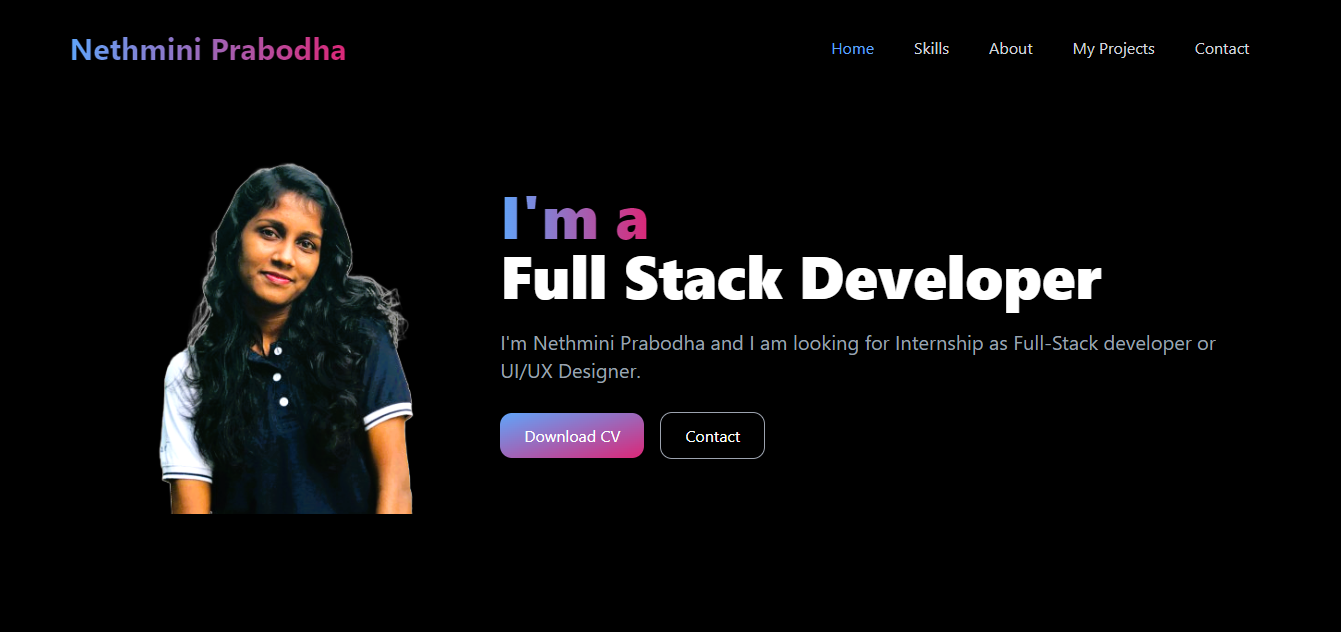
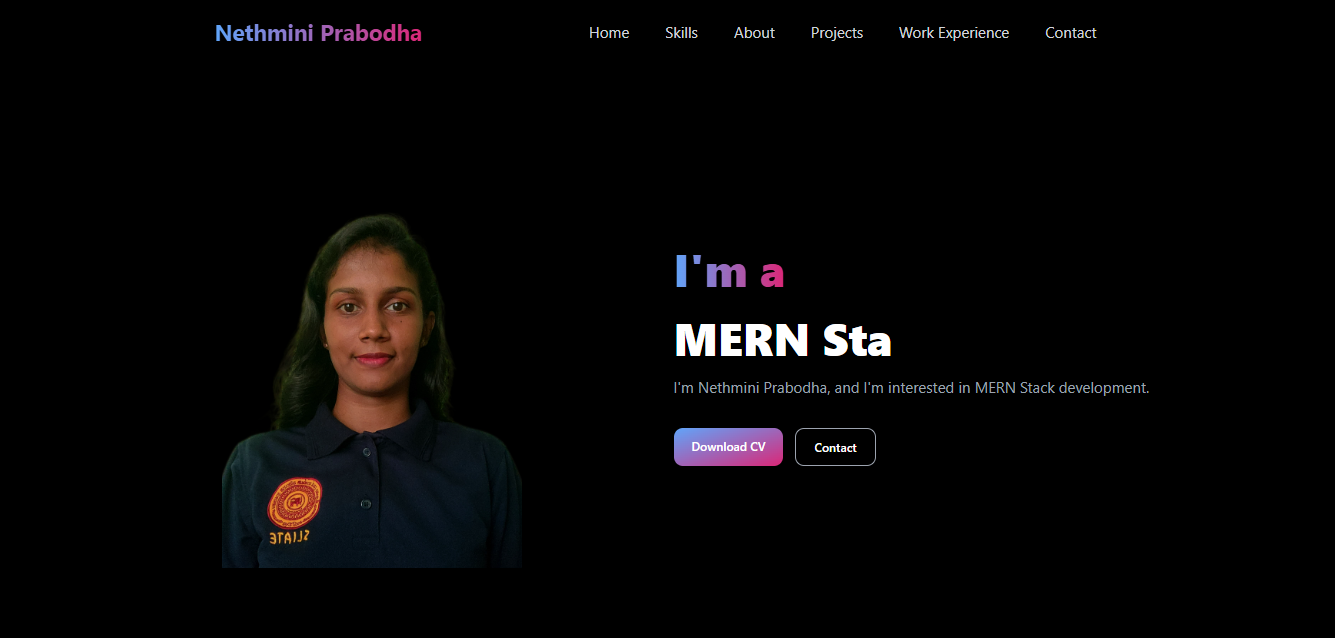
fix

diff --git a/src/components/Projects.jsx b/src/components/Projects.jsx
@@ -1,6 +1,7 @@
 import React, { useEffect } from "react";
 import proj1 from "../assets/JobPortal.png";
 import proj2 from "../assets/proj2.PNG";
+import proj3 from "../assets/proj3.PNG";
 import { MdOpenInNew } from "react-icons/md";
 import Aos from "aos";
 import "aos/dist/aos.css";
@@ -66,7 +67,30 @@ const Projects = () => {
             </a>
           </div>
         </div>
+        <div className="relative group rounded-lg shadow-lg overflow-hidden border border-blue-500">
+          <img
+            src={proj3}
+            alt="Library Management System"
+            className="w-full h-64 object-cover transform group-hover:scale-110 transition duration-500"
+          />
+          <div className="absolute inset-0 bg-gradient-to-b from-transparent to-black opacity-0 group-hover:opacity-80 transition duration-500"></div>
+          <div className="absolute inset-0 flex flex-col justify-center items-center opacity-0 group-hover:opacity-100 transition duration-500">
+            <h3 className="text-2xl font-bold text-white mb-4">BookScape (Library Management System)
+              <h4 className="flex items-center justify-center">(Under Development)</h4>
+            </h3>
+            <a
+              href="https://github.com/NethuNP/Library_Management-Frontend"
+              target="_blank"
+              rel="noopener noreferrer"
+            >
+              <button className="flex items-center text-white bg-blue-600 hover:bg-blue-700 px-6 py-2 rounded-full transition duration-300">
+                View Project <MdOpenInNew className="ml-2" />
+              </button>
+            </a>
+          </div>
+        </div>
       </div>
+      
     </div>
   );
 };

diff --git a/src/components/Hero.jsx b/src/components/Hero.jsx
@@ -39,7 +39,7 @@ const Hero = () => {
         {/* Buttons Section */}
         <div className="flex flex-wrap justify-center md:justify-start gap-4 md:my-10">
           <a
-            href="https://drive.google.com/file/d/17E6xqYn6wfj3ZPn_mibWJiVpN9HfJLgd/view?usp=drivesdk"
+            href="https://drive.google.com/file/d/1IBq9wpQiwgTk2obpysNYLnl4GaHvBlzJ/view"
             target="_blank"
             rel="noopener noreferrer"
             className="px-5 py-3 sm:px-6 sm:py-3 rounded-xl bg-gradient-to-br from-blue-400 to-pink-600 text-white font-medium hover:scale-105 transition-transform"

diff --git a/public/index.html b/public/index.html
@@ -24,7 +24,7 @@
       work correctly both with client-side routing and a non-root public URL.
       Learn how to configure a non-root public URL by running `npm run build`.
     -->
-    <title>React App</title>
+    <title>Nethmini Prabodha</title>
   </head>
   <body>
     <noscript>You need to enable JavaScript to run this app.</noscript>
